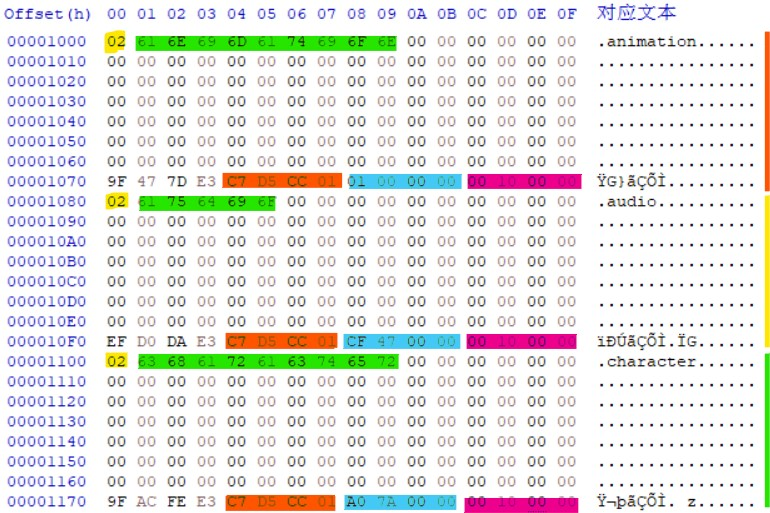
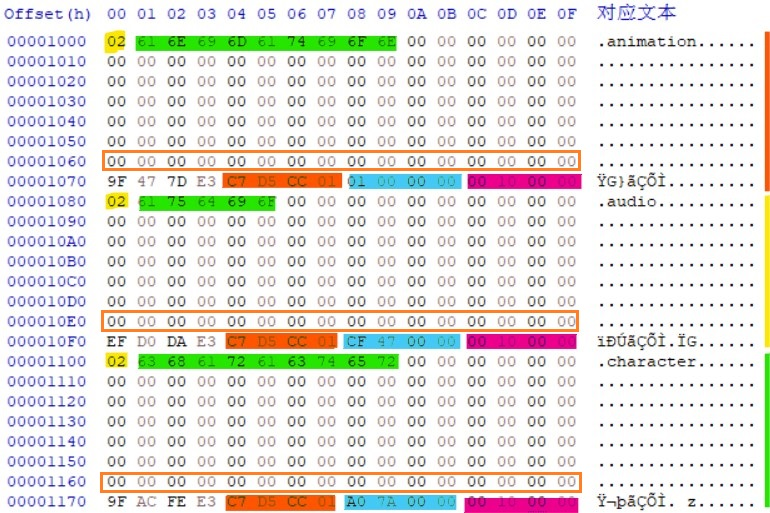
信息块特征+1，XorShiftOffset支持生成此特征模糊偏移

Changed region(s): [[0.1247, 0.9045, 0.7792, 0.9669], [0.1247, 0.5926, 0.7792, 0.655], [0.1247, 0.2807, 0.7792, 0.3431]]

diff --git a/Tools/XorShiftOffset.html b/Tools/XorShiftOffset.html
@@ -94,6 +94,7 @@
     <div class="container">
         <h3>类型</h3>
         <select id="inputType">
+            <option value="nameBlank">名称空白 (0x60-0x6F)</option>
             <option value="identifier">数据标识 (0x74-0x77)</option>
             <option value="dataOffset">数据偏移 (0x78-0x7B)</option>
         </select>
@@ -117,7 +118,7 @@
     </footer>
 
     <script>
-        const PdeKey = new Uint8Array(0x10000);
+        let PdeKey = new Uint8Array(0x10000);
 
         function generateKey() {
             let EAX = 0x42574954;
@@ -149,7 +150,6 @@
         }
 
         function processInput() {
-            generateKey();
             const input = document.getElementById('input').value;
             if (!input)
                 return;
@@ -164,14 +164,19 @@
                 let offset;
                 if (inputType === 'dataOffset') {
                     offset = i * 0x80 + 0x78;
-                } else { // identifier
+                } else if (inputType === 'identifier') {
                     offset = i * 0x80 + 0x74;
+                } else if (inputType === 'nameBlank') {
+                    offset = i * 0x80 + 0x60;
                 }
                 const encryptedBytes = inputBytes.map((b, j) => b ^ PdeKey[offset + j]);
                 output += `${i + 1}: ${bytesToHex(encryptedBytes)}\n`;
             }
 
             document.getElementById('output').textContent = output;
+        }
+        window.onload = function () {
+            generateKey();
         }
     </script>
 </body>

diff --git a/README.md b/README.md
@@ -48,7 +48,13 @@
 #### 文件名 (绿色)
     类型之后紧跟的就是文件名
 
-#### 标识？(橙色)
+#### 偏移值 (蓝色)
+    相对位置在 0X78-0X7B
+
+#### 大小 (紫色)
+    相对位置在 0X7C-0X7F
+
+#### 文件信息块特征1 (橙色)
     解密后可以观察到每个在目录中的"文件"都有一个标识?
     相对位置在 0X74-0X77
 
@@ -59,11 +65,13 @@
     一共32个这样的标识？因为解密时读取密钥的方式是循环读取
     密钥大小是 0X1000，每个"文件"都只占用0x80,所以只有32个标识？
 
-#### 偏移值 (蓝色)
-    相对位置在 0X78-0X7B
+#### 文件信息块特征2 (橙框)
+    0X60 - 0X6F
+    这个区域逻辑上是给名称用的
+    但是大多数写不到这一行
+    所以绝大部分(未验证)是00
+    所以算是一个找文件信息块的特征吧
 
-#### 大小 (紫色)
-    相对位置在 0X7C-0X7F
 
 ### 文件特征码(原始加密状态)
 
